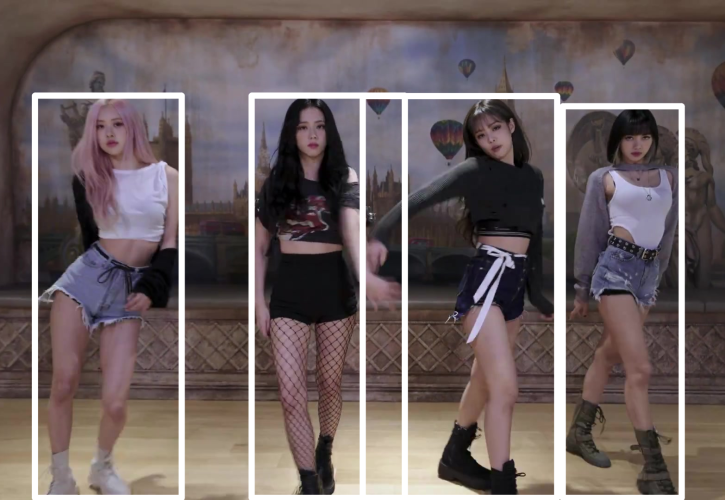
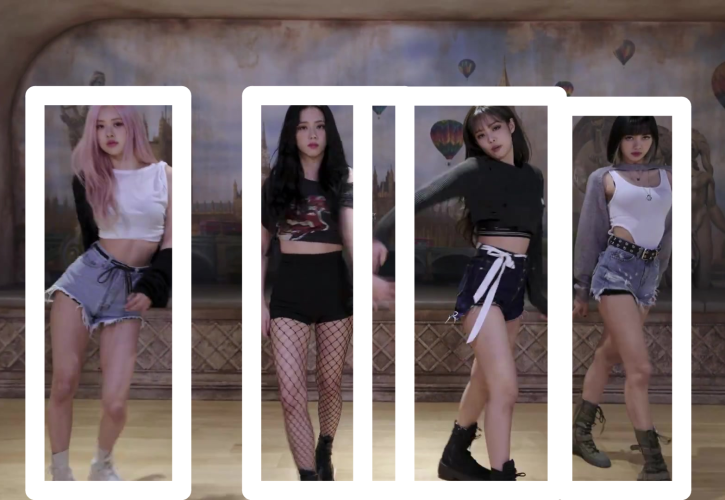
資料: TBD・TBA図のbboxを太くしID番号を外す

Changed region(s): [[0.3338, 0.15, 0.971, 1.0], [0.0303, 0.15, 0.2731, 1.0]]

diff --git a/.research/lab/projects/sam2-mamba-motion-tracking/materials/figures/2026-10-15-mot-paradigm-timeline/make_thumbnails.py b/.research/lab/projects/sam2-mamba-motion-tracking/materials/figures/2026-10-15-mot-paradigm-timeline/make_thumbnails.py
@@ -2,7 +2,7 @@
 """Frame images for the TBD / TBA timeline diagrams (dancetrack0052 GT, three frames).
 
 For each frame k: frame_k.png (input), det_k.png (white boxes, no ID: detector output),
-trk_k.png (ID-colored boxes: tracking output), tba_k.png (ID-colored boxes + dashed search
+trk_k.png (ID-colored boxes, no ID label: tracking output), tba_k.png (ID-colored boxes + dashed search
 region around the previous frame's box of ID 1, as in template matching). Boxes are GT and only
 illustrate what each stage outputs.
 
@@ -19,6 +19,7 @@ SEQ = Path("/mnt/HDD10TB-2/aburatani/dataset/DanceTrack/train2/train2/dancetrack
 OUT = Path(__file__).parent
 SIZE = (725, 500)
 SEARCH_ID = 0  # GT ID 0（表示は ID 1）
+TH = 40  # 枠の太さ（元画像の画素）。スライドでは約1.15インチ幅に縮むので太めにする（2026-10-15 先生のFB）
 COLORS = {0: (60, 60, 230), 1: (220, 140, 30), 2: (70, 180, 60), 3: (180, 60, 170)}  # BGR, ID 1-4
 
 
@@ -63,11 +64,10 @@ def main():
         base = cv2.imread(str(SEQ / "img1" / f"{f:08d}.jpg"))
         det, trk, tba = base.copy(), base.copy(), base.copy()
         for tid, (x, y, w, h) in boxes[f].items():
-            p1, p2 = (round(x), max(4, round(y))), (round(x + w), min(1075, round(y + h)))
-            cv2.rectangle(det, p1, p2, (255, 255, 255), 12, cv2.LINE_AA)
+            p1, p2 = (round(x), max(TH // 2, round(y))), (round(x + w), min(1079 - TH // 2, round(y + h)))
+            cv2.rectangle(det, p1, p2, (255, 255, 255), TH, cv2.LINE_AA)
             for im in (trk, tba):
-                cv2.rectangle(im, p1, p2, COLORS[tid], 12, cv2.LINE_AA)
-                label(im, p1, str(tid + 1), COLORS[tid])
+                cv2.rectangle(im, p1, p2, COLORS[tid], TH, cv2.LINE_AA)  # ID の番号は付けない（色で区別）
         if True:  # 前フレームの位置の周辺（探索範囲）。見やすさのため1人（ID 1）だけ描く
             for tid, (x, y, w, h) in boxes[frames[k - 1] if k else prev].items():
                 if tid != SEARCH_ID:

diff --git a/.research/lab/projects/sam2-mamba-motion-tracking/materials/2026-10-14-midterm-slide-revision-plan.md b/.research/lab/projects/sam2-mamba-motion-tracking/materials/2026-10-14-midterm-slide-revision-plan.md
@@ -52,3 +52,11 @@ tags: [presentation, midterm, revision]
 - 2026-10-15: 背景スライド（#1）用に、[dancetrack0052のマスク動画](figures/2026-10-14-dancetrack0052-mask-example/manifest.md)を作った（GT bboxからSAM2で作成、IDラベルなし）。
 - 2026-10-15: 2枚目（背景）を修正した（#1）。タイトルを「背景：物体追跡」にし、本文を「物体追跡（SOT／MOT）」「対象の表し方（bbox／マスク）」「入出力」の3項目に差し替え、「応用」を削除した。右側に、上段 bbox（正解データ）・下段 マスク（正解bboxからSAM2で作成）の動画を並べ、下に「DanceTrack [Sun+, CVPR2022]　同じ色＝同じID」を置いた。マスク動画も正解データ動画と同じく、自動再生・ループ・ミュートで同時に再生する。
 - 2026-10-15: 6枚目（研究の目的）を修正した（#5）。タイトルを「研究の目的と提案手法」にし、目的「SAM2に，対象の時間的変化を明示的にモデル化する機構を導入し，複数物体追跡（MOT）に適用する」の下に、手法1（動き予測）・手法2（マスク生成）を「既存手法」「本研究」の2列で並べた表を置いた。KF等速の図は縮小して表の下に残し、凡例の「①の理由」を「手法1の理由」にした。
+
+## 先生のFB（2026-10-15、スライド確認後）
+
+ユーザーが先生から受け取ったFB。ユーザーの手元の版 [20261018_中間発表_油谷.pptx](20261018_中間発表_油谷.pptx) に対するもの。
+
+| # | スライド | FB | 対応 |
+|---|---|---|---|
+| F1 | 従来のMOT手法 | TBD・TBAとも、一番右の色付きbboxが見にくい。IDはなくてよいので太いbboxにする | 2026-10-15 対応（枠を太くし、IDの番号を外した。白枠の検出結果も同じ太さ） |

diff --git a/.research/lab/projects/sam2-mamba-motion-tracking/materials/2026-10-12-midterm-slide-restructure.md b/.research/lab/projects/sam2-mamba-motion-tracking/materials/2026-10-12-midterm-slide-restructure.md
@@ -127,6 +127,9 @@ tags: [presentation, midterm, restructure]
 - 8枚目（同日の追加修正）: ユーザーの希望で、IDごとのマスクを重ねる形から**上下に並べる形**に変えた。ID 1〜4 の行ごとに「マスク → Mambaによる動き予測」を並べ、Mamba の出力を1本にまとめて motion score へ。図の上の赤字の注記は外し、列の見出し（IDごとのマスク / IDごとに並列）にした。
 - 重ねた形の図も、あとで戻せるように残した。本体では非表示スライド「（旧）提案手法：IDごとのマスクを重ねた図」（最後尾）、図だけのpptxでは同じ題のスライド（`png/09-proposed-method-stacked.png`）。
 
+## 2026-10-16 先生のFB（F1〜F3）への対応
+
+- F1（従来のMOT手法）: ID付き・検出結果の画像の枠を太くし（元画像で 12 px → 40 px）、IDの番号を外した。[作り方](figures/2026-10-15-mot-paradigm-timeline/manifest.md)
 ## 自作図のバックアップ
 
 自作の図（3・4・6・7枚目）は、[抜き出し版のpptx](figures/2026-10-13-midterm-diagrams/manifest.md)にも保存した。

diff --git a/.research/lab/projects/sam2-mamba-motion-tracking/materials/figures/2026-10-15-mot-paradigm-timeline/manifest.md b/.research/lab/projects/sam2-mamba-motion-tracking/materials/figures/2026-10-15-mot-paradigm-timeline/manifest.md
@@ -10,8 +10,9 @@
 |---|---|
 | `frame_k.png` | dancetrack0052 の frame 7 / 15 / 23（k = 0, 1, 2）。k = 0 の探索範囲には frame 1 の位置を使う |
 | `det_k.png` | GTの枠を白（IDなし）で描いたもの。検出結果の例 |
-| `trk_k.png` | GTの枠とIDを色付きで描いたもの。追跡結果の例 |
+| `trk_k.png` | GTの枠を ID ごとの色で描いたもの（ID の番号は付けない）。追跡結果の例 |
 | `tba_k.png` | `trk_k` に、前フレームの ID 1 の枠を広げた白の点線（探索範囲）を加えたもの（現在はスライドで未使用） |
 
 - 画像は正解データを使った模式図で、特定の手法の出力ではない（スライドに注記あり）。
 - `make_thumbnails.py 1 7 15 23` で作り直せる。
+- 2026-10-15: 先生のFB（色付きの枠が見にくい。IDはなくてよいので太く）で、枠を太くし（元画像で 12 px → 40 px、白枠の `det_k.png` も同じ太さ）、`trk_k.png` の ID の番号を外した。
